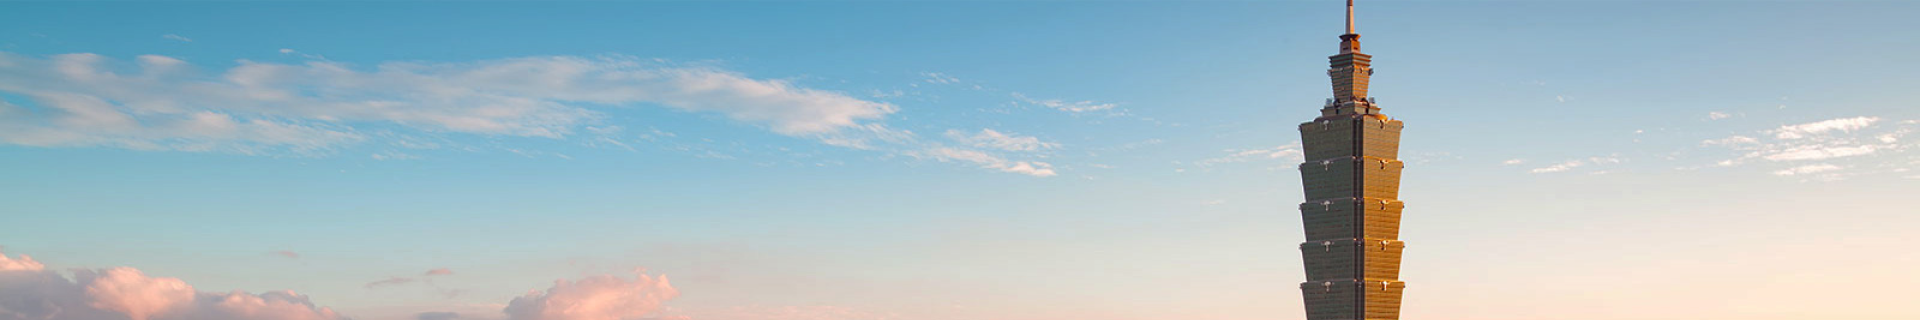
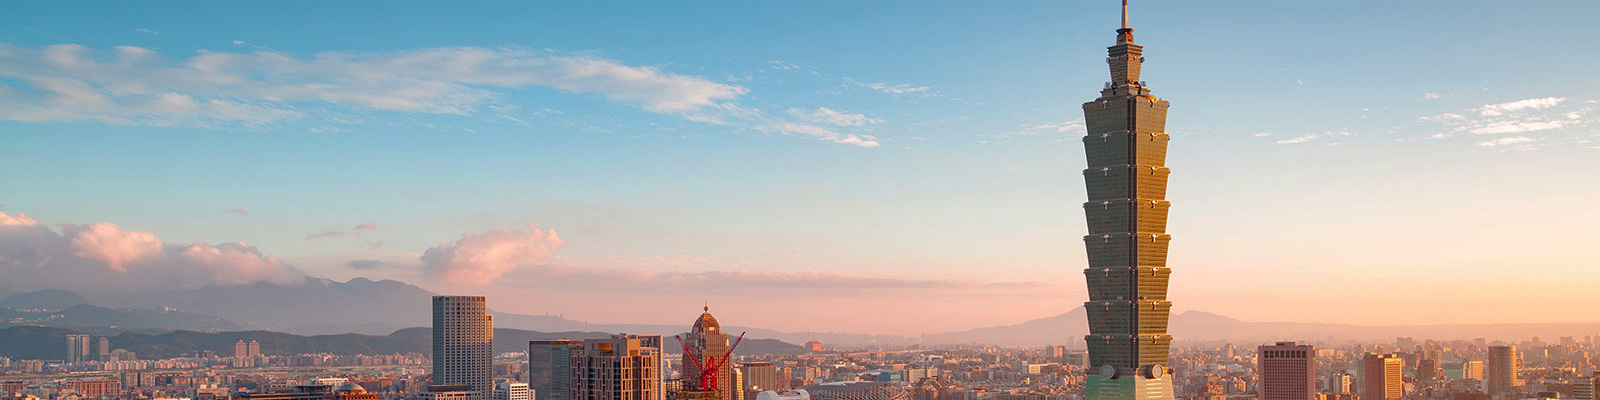
2st develop Commit 1129 -- Final Version for ubuntu in AWS -- change welcome.png

diff --git a/public/layout.css b/public/layout.css
@@ -72,7 +72,8 @@ html {
   height: 320px;
 
   background-image: url(welcome.png);
-  background-position: center;
+  background-position: top;
+  background-size: cover;
   top: 45px;
 }
 .welcome {
@@ -402,19 +403,11 @@ html {
 @media (max-width: 1200px) {
   /* 螢幕寬度小於 1200px, 套用這個區塊的 css*/
 
-  .mylist {
-    width: 100vw;
-    display: flex;
-    justify-content: center;
-    justify-items: center;
-  }
-
   .list-block {
     display: flex;
+    justify-content: center;
     align-items: center;
     width: 90%;
-    justify-content: flex-start;
-    padding-left: 5vw;
   }
 
   .menu {
@@ -498,17 +491,6 @@ html {
 }
 
 @media (max-width: 600px) {
-  .list-block {
-    padding-right: 10vw;
-  }
-
-  .mylist {
-    width: 100vw;
-    display: flex;
-    justify-content: center;
-    justify-items: center;
-  }
-
   .desktop-menu-left {
     padding: 10px;
     width: 150px;
